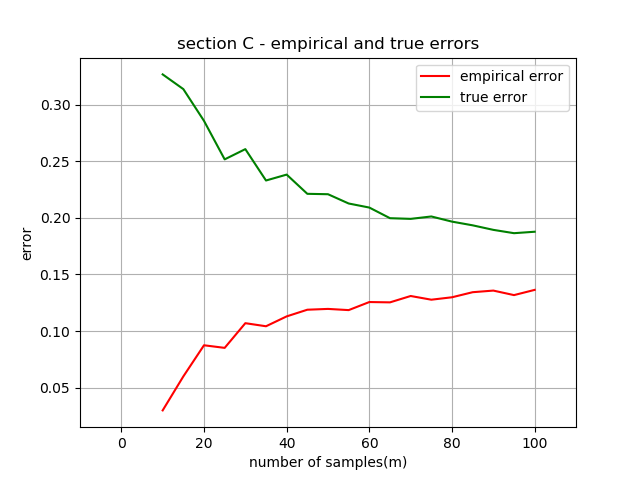
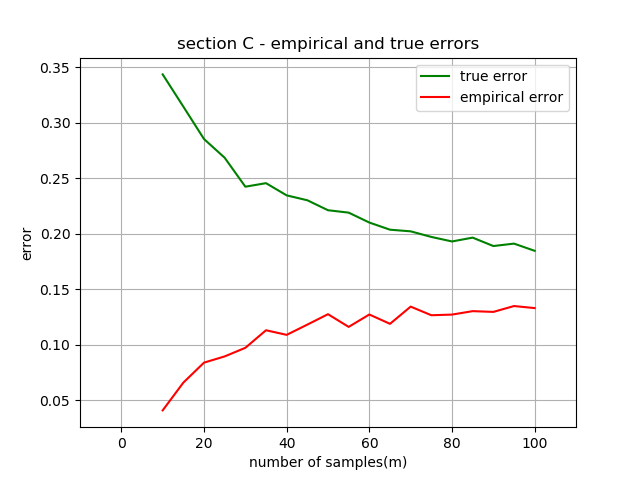
minor changes

diff --git a/Ex2/Intervals/SubsectionC.py b/Ex2/Intervals/SubsectionC.py
@@ -1,12 +1,12 @@
-import numpy as np
 from intervals import find_best_interval
 from Utils import *
+import matplotlib.pyplot as plt
 
 
 def plot(esM, epM, M):
 
-    plt.plot(M, esM, 'r', label='empirical error')
     plt.plot(M, epM, 'g', label='true error')
+    plt.plot(M, esM, 'r', label='empirical error')
     plt.xlim([-10, 110])
     plt.xlabel('number of samples(m)')
     plt.ylabel('error')

diff --git a/Ex2/Intervals/SubsectionA.py b/Ex2/Intervals/SubsectionA.py
@@ -1,5 +1,6 @@
 from intervals import find_best_interval
 from Utils import *
+import matplotlib.pyplot as plt
 
 
 def plot(xs, ys, intervals, title):

diff --git a/Ex2/Intervals/Utils.py b/Ex2/Intervals/Utils.py
@@ -1,7 +1,6 @@
 import random
 from operator import itemgetter
 import numpy as np
-import matplotlib.pyplot as plt
 
 
 def sample(m):
